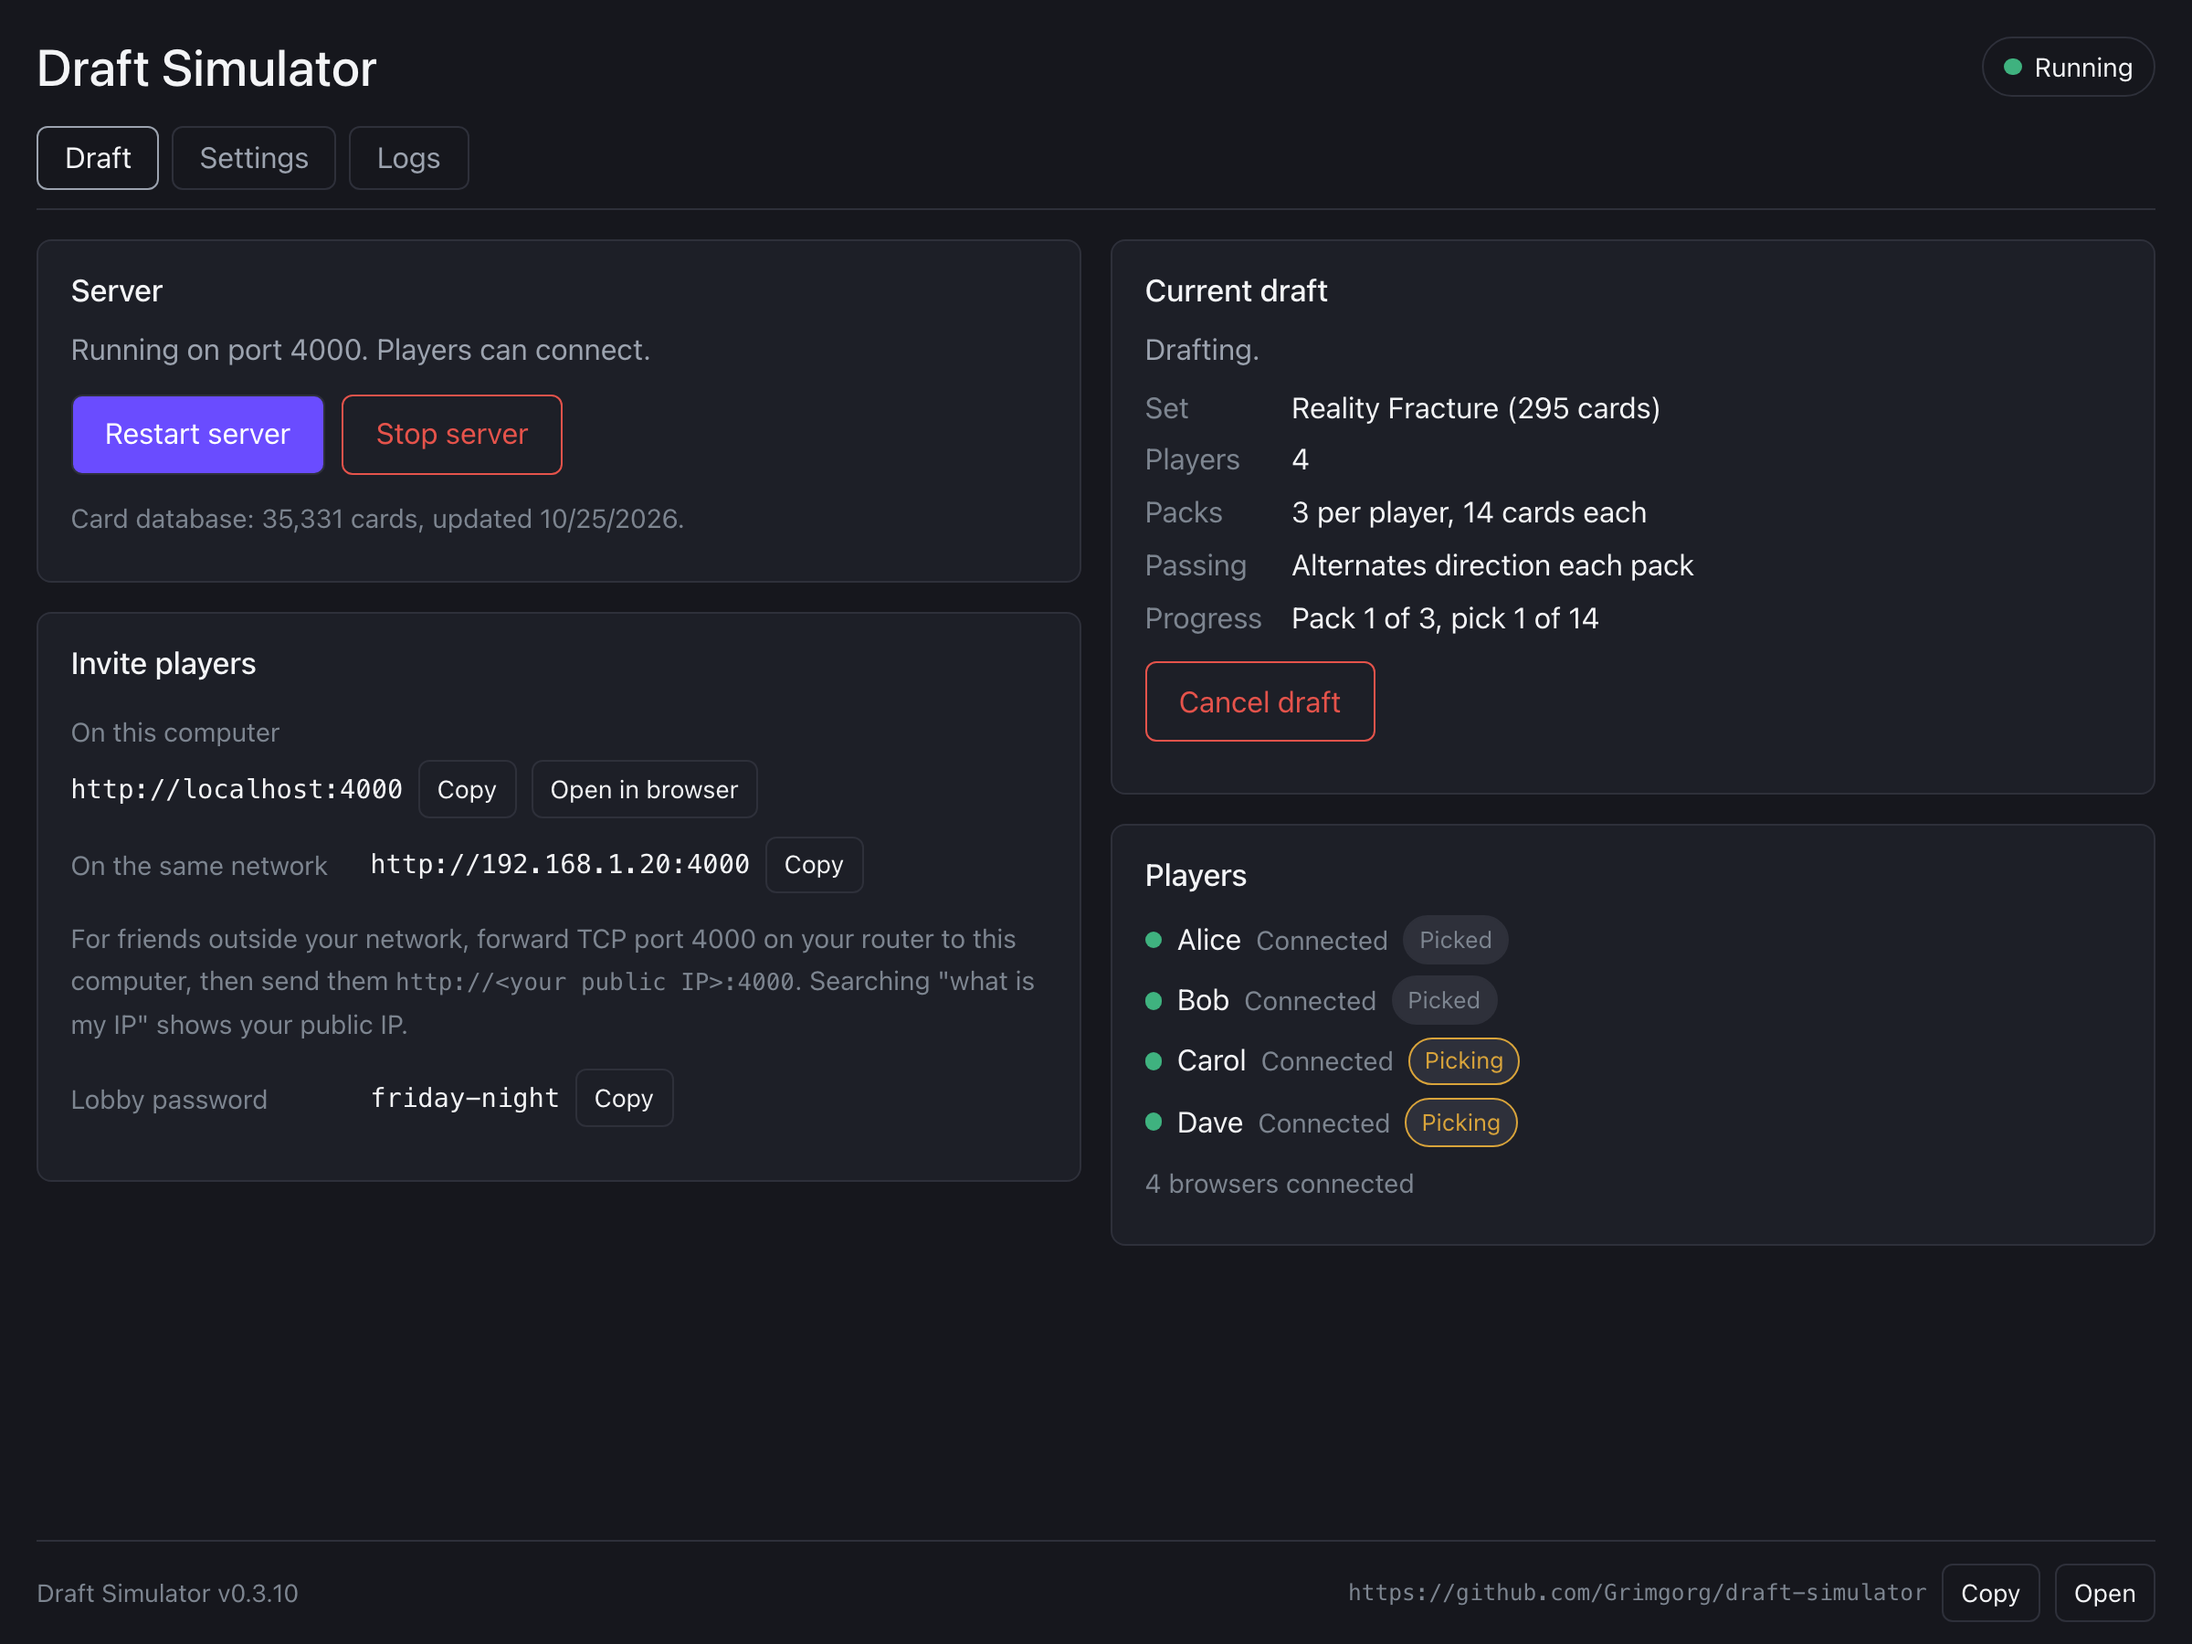
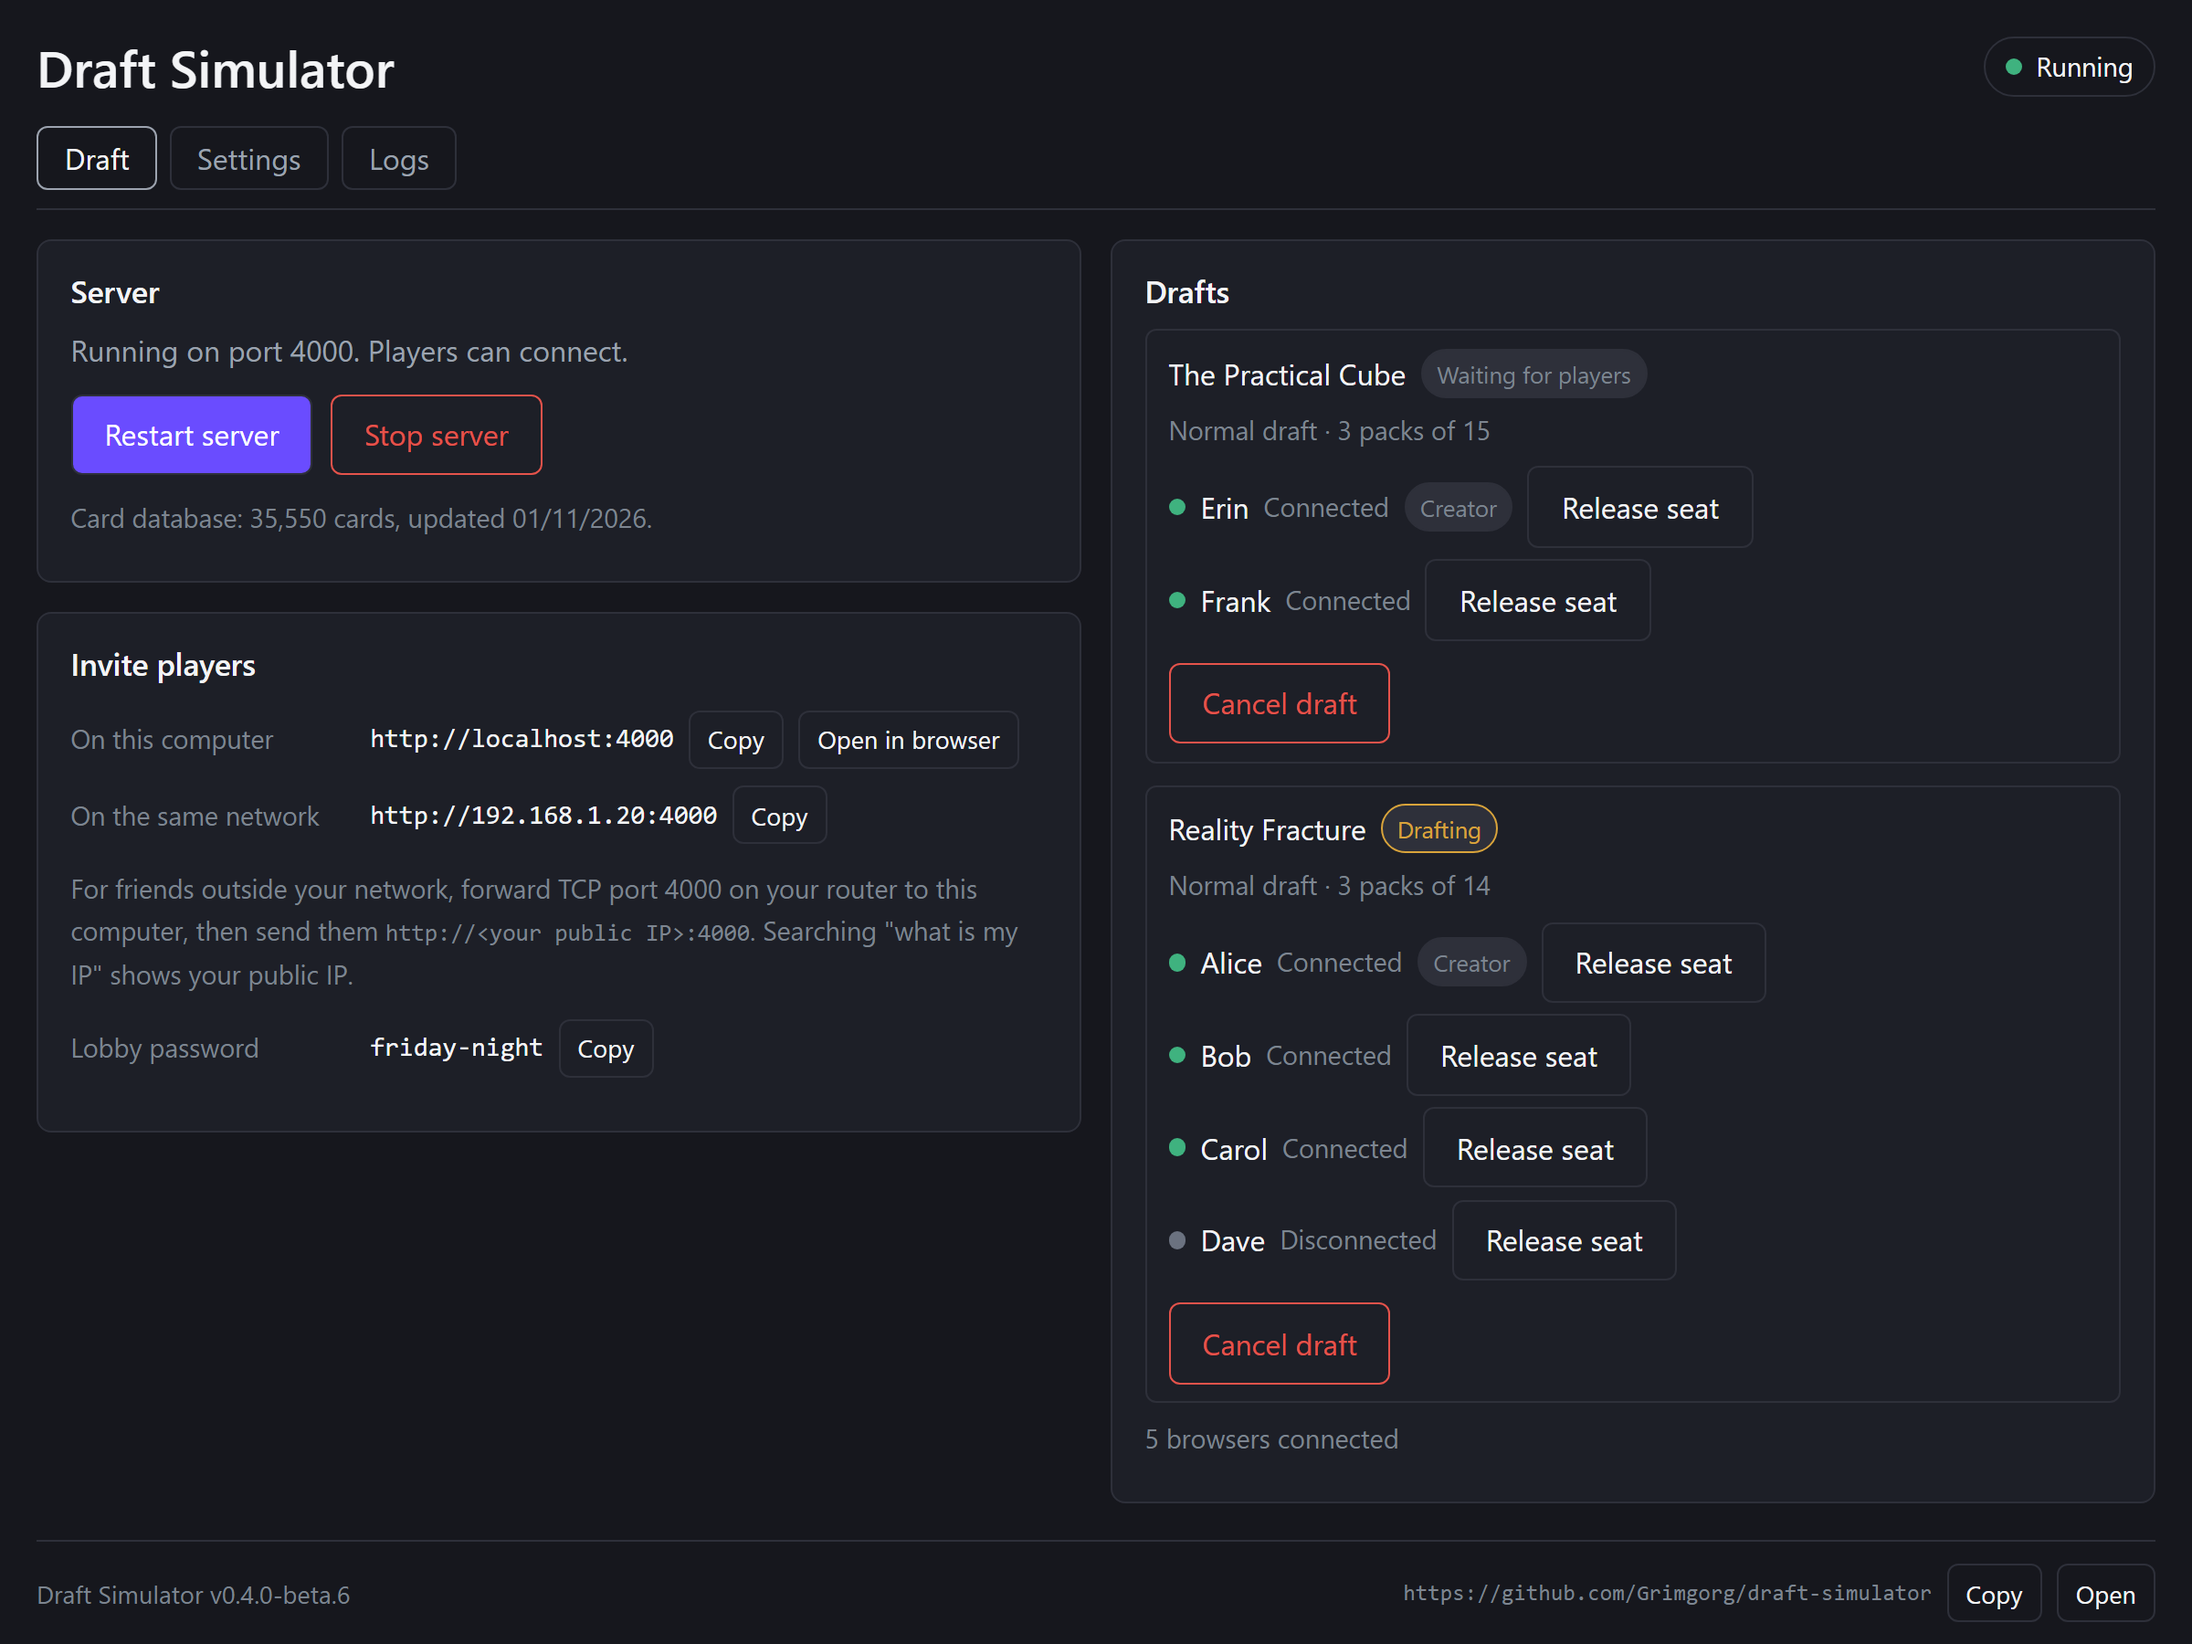
docs: show the Drafts panel in the management UI screenshot
The README's screenshot still showed the single "Current draft" panel from
before several drafts could run at once.

diff --git a/README.md b/README.md
@@ -20,7 +20,7 @@ Only the host installs Draft Simulator. Everyone else just opens its address in 
 2. Install it: run the Windows installer, or drag Draft Simulator from the `.dmg` into Applications.
 3. Start Draft Simulator. Its window is the **management UI**, from which you run the server. Click **Start server** when you're ready for players to connect. If a draft was still open or under way when you closed the app, the server starts by itself, so players get back in. The server runs while the window is open; closing it stops the server. The first start downloads the card database, which takes a minute, and the **Logs** tab shows how far along it is.
 
-![The management UI during a four-player Reality Fracture draft](docs/images/management-ui.png)
+![The management UI with two drafts: a four-player Reality Fracture draft and a cube draft waiting for players](docs/images/management-ui.png)
 
 ### Where your data is stored
 
